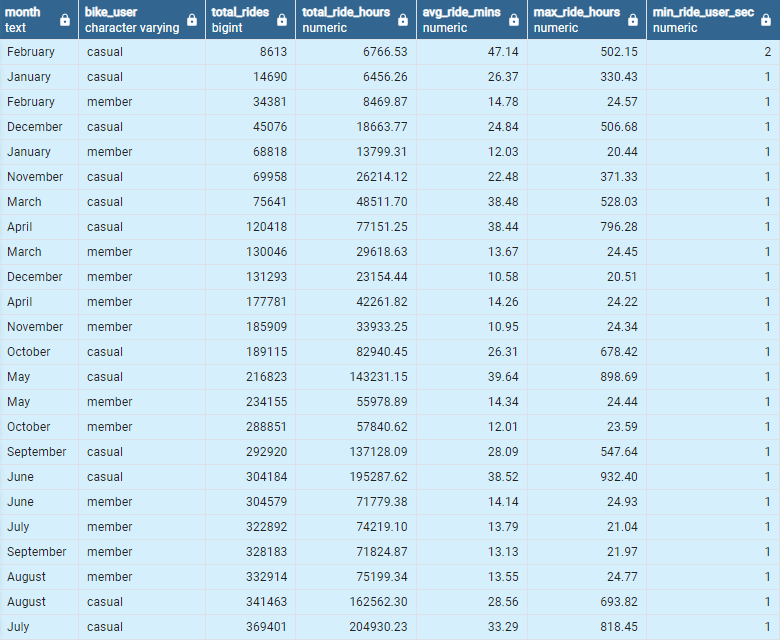
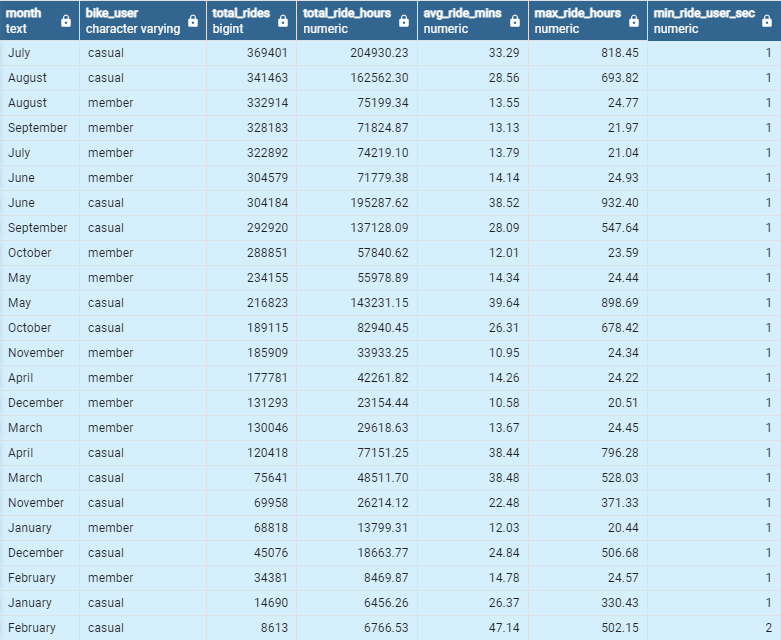
Added new images

Changed region(s): [[0.0, 0.0, 0.9846, 1.0], [0.9846, 0.0625, 1.0, 0.0938]]

diff --git a/content/posts/Data Analytics Capstone Project/maui.md b/content/posts/Data Analytics Capstone Project/maui.md
@@ -277,7 +277,7 @@ group by bike_user
 ![](/images/image3.png)
 
 
-### Monthly Metrics
+### 4.4 Monthly Metrics
 
 ```SQL
 select 
@@ -292,20 +292,48 @@ min(ride_length) as min_ride_user_sec
 from biketrips
 
 group by Month,bike_user
-order by total_rides
+order by total_rides desc
 ```
 ![](/images/image4.png)
 
-### 4.5 Weekly Metrics
-
-
-
-### Monthly Metrics 
+### 4.5 Day of week Metrics
 
 ```SQL
+select 
+day_of_week
+bike_user,
+count(ride_id) AS total_rides,
+round(sum(ride_length/3600),2) as total_ride_hours,
+round(avg(ride_length/60),2) as avg_ride_mins,
+round(max(ride_length/3600),2) as max_ride_hours,
+min(ride_length) as min_ride_user_sec
 
+from biketrips
+
+group by day_of_week,bike_user
+order by total_rides desc
 ```
+![](/images/image5.png)
 
+
+### 4.6 Top Stations
+
+```SQL
+select 
+start_station_name
+bike_user,
+count(ride_id) AS total_rides,
+round(sum(ride_length/3600),2) as total_ride_hours,
+round(avg(ride_length/60),2) as avg_ride_mins,
+round(max(ride_length/3600),2) as max_ride_hours,
+min(ride_length) as min_ride_user_sec
+
+from biketrips
+
+group by start_station_name,bike_user
+order by total_rides desc LIMIT 15
+```
+![](/images/image6.png)
 
 **Busiest day for rides**
 
